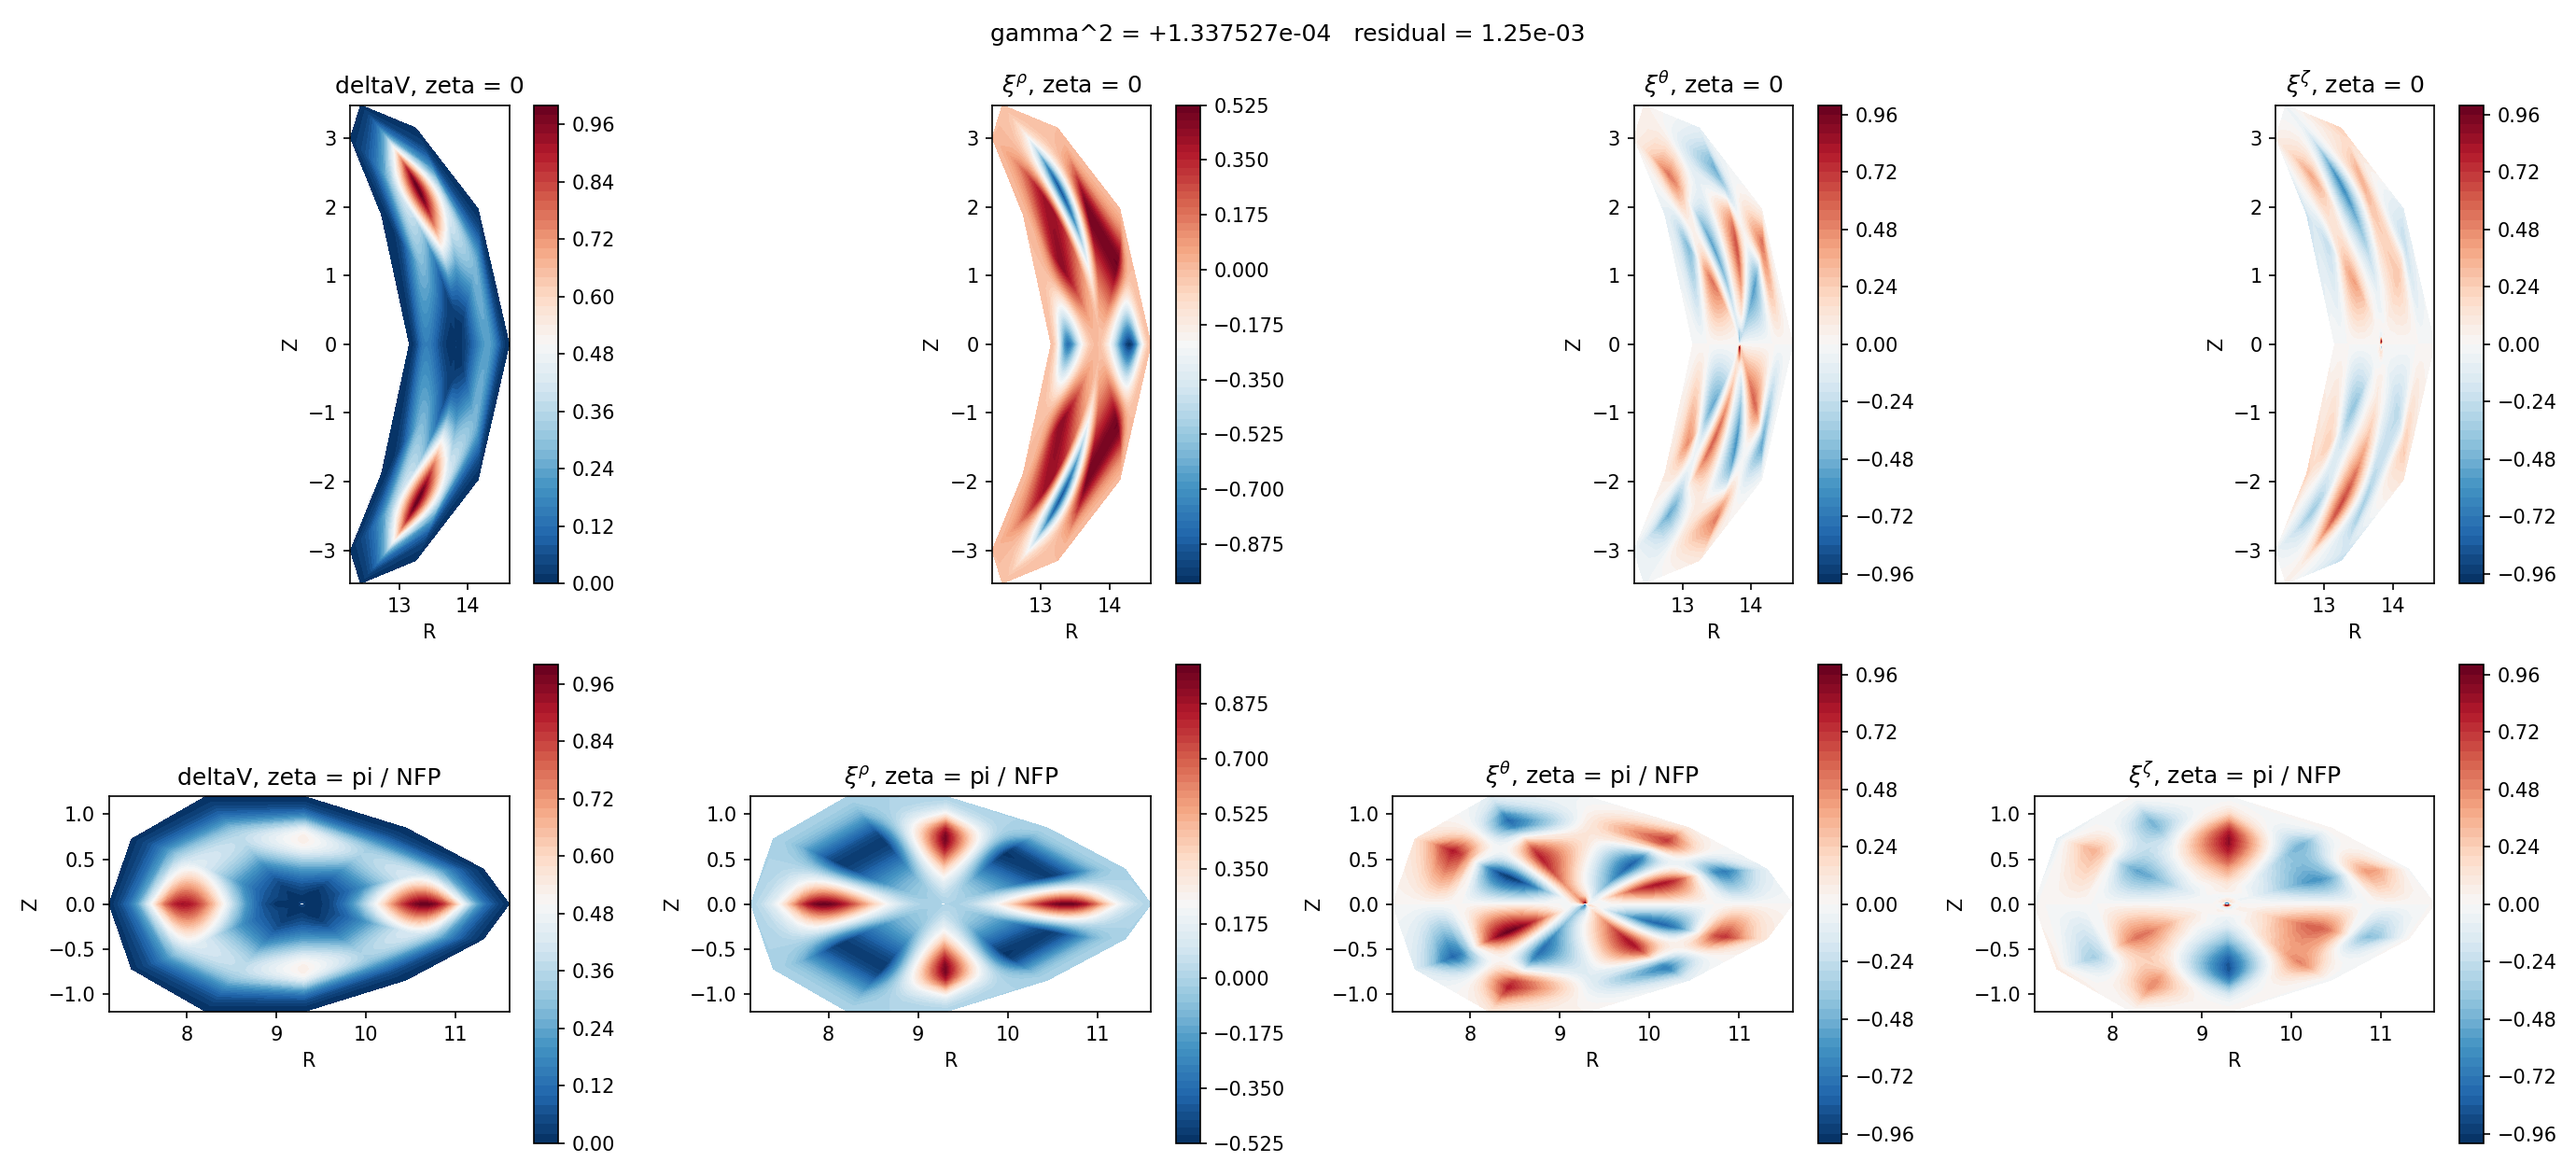
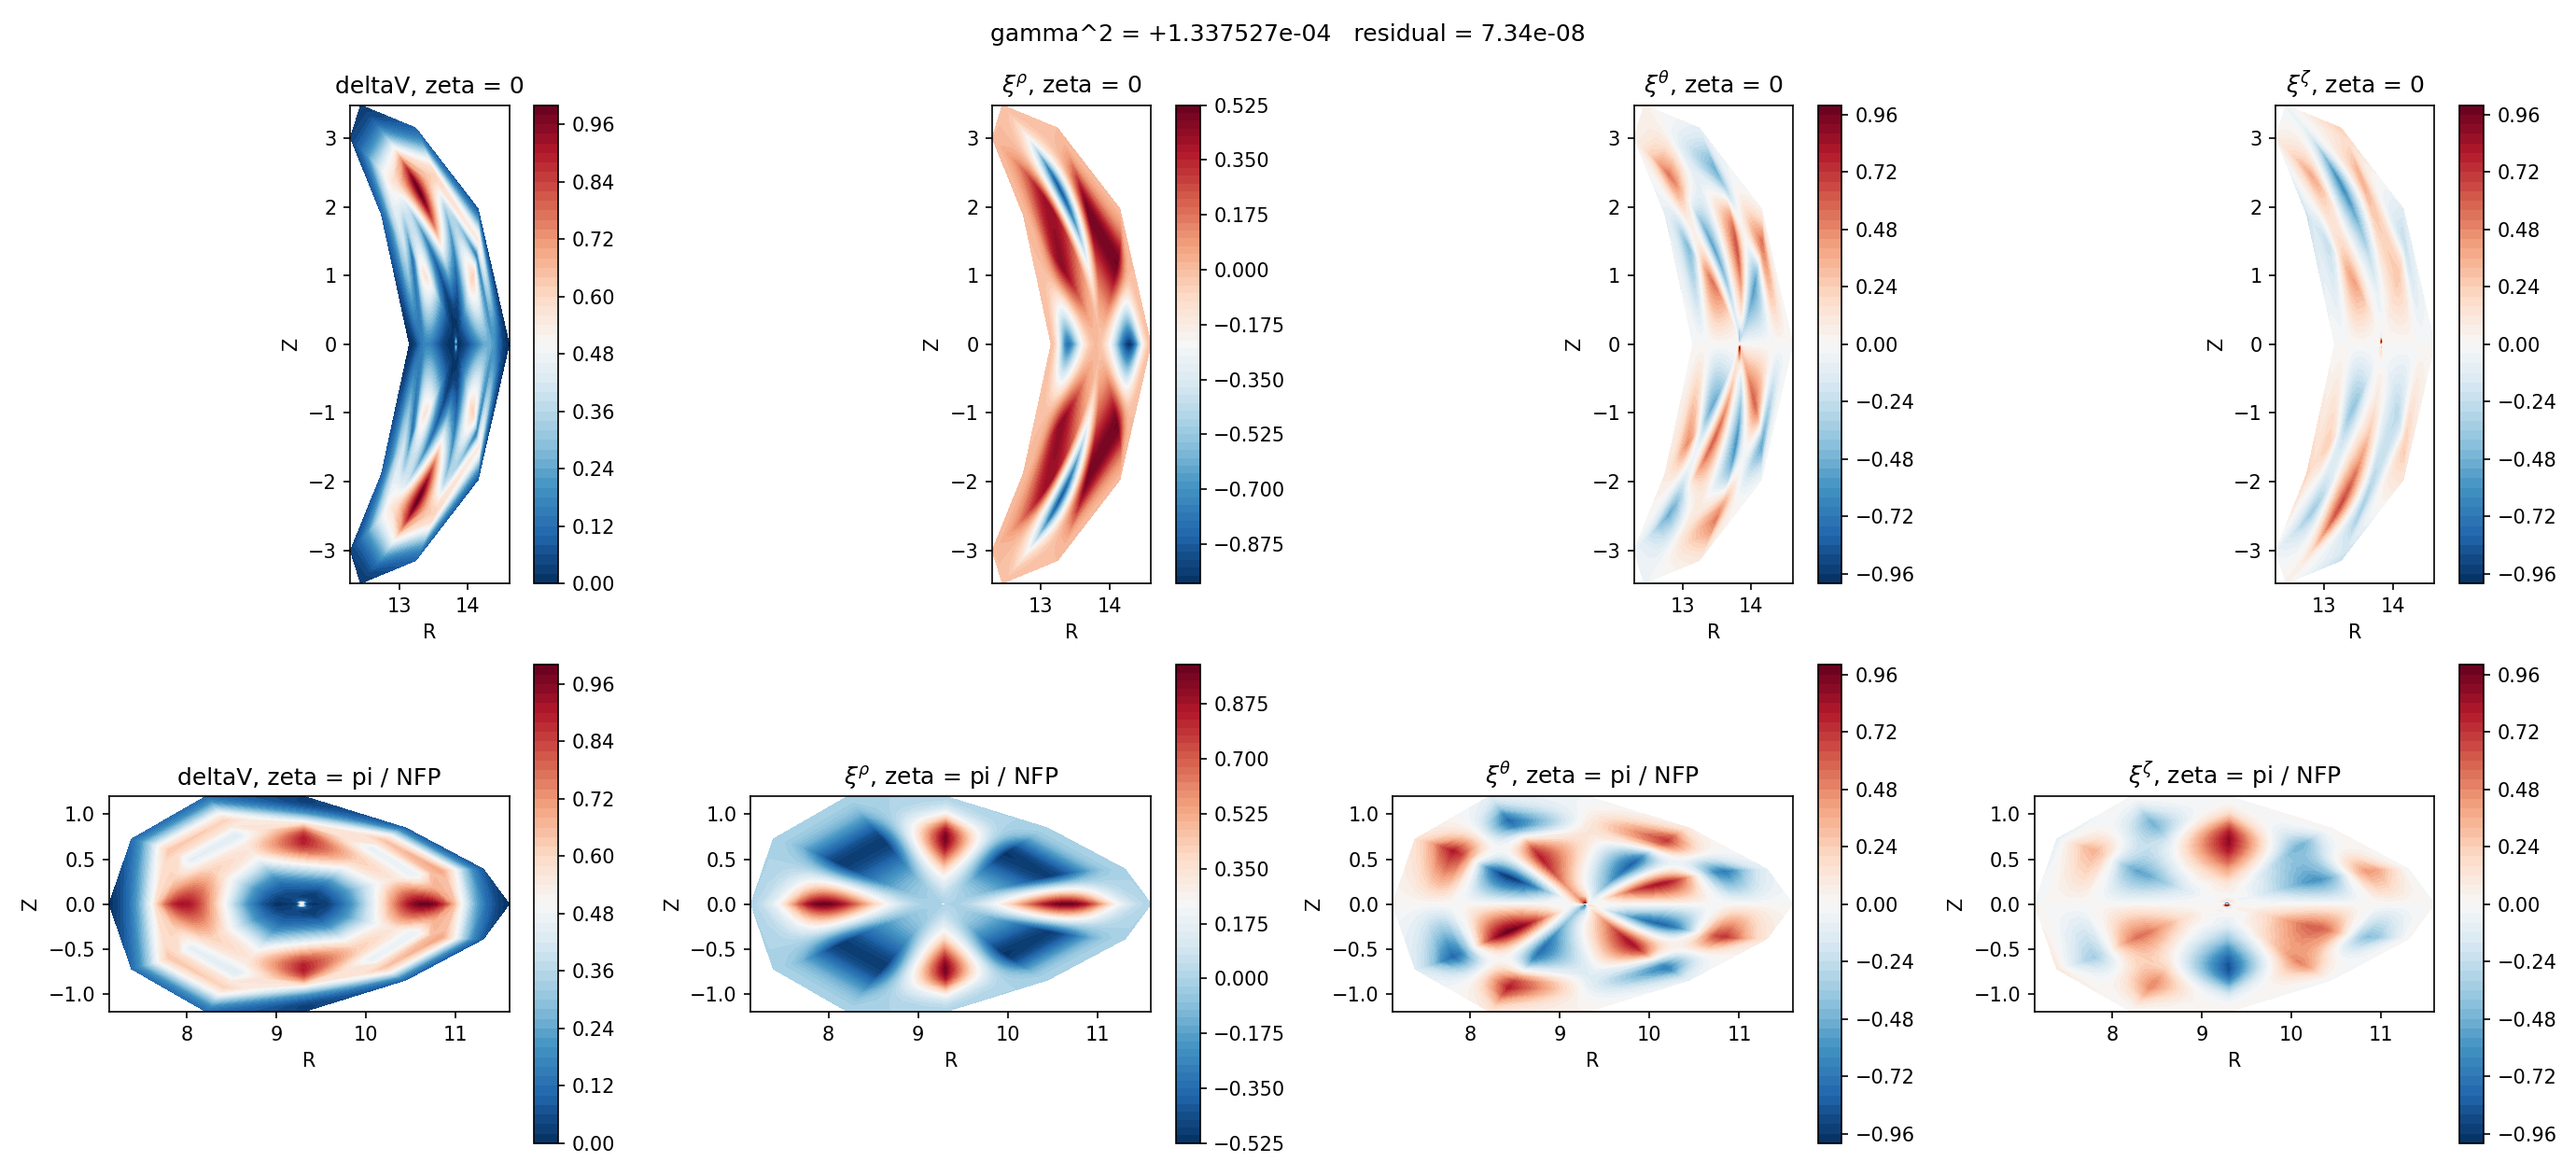
mode_displacement: xi^rho with the solver's normalized psi'

Changed region(s): [[0.1246, 0.0929, 0.2181, 0.4952], [0.0312, 0.681, 0.2181, 0.8667]]

diff --git a/tests/test_plotting.py b/tests/test_plotting.py
@@ -115,24 +115,45 @@ def test_a_wrong_length_vector_is_refused(eq_data, solved):
         mode_components(op, v[:-1])
 
 
-def test_displacement_undoes_the_axis_rescaling(eq_data, solved):
-    """``xi_tilde`` is the solver's components with Eq. (21) undone.
+@pytest.mark.parametrize("case", ["3d", "axisymmetric"])
+def test_displacement_undoes_the_axis_rescaling(
+    case, eq_data, diffmat, solved, axisym_case, axisym_solved
+):
+    """``xi`` is the solver's components with Eq. (21) undone, and it carries
+    the kinetic energy: ``v^H v = int |xi|^2 dV`` in the solver's units.
 
-    Checked against the definition rather than against a stored array, because
-    the definition is the thing that is easy to get wrong: the solver carries
-    ``upsilon = xi^theta - xi^zeta``, so recovering ``xi^theta`` is an addition,
-    not a copy.
+    The solver carries ``upsilon = xi^theta - xi^zeta``, so recovering
+    ``xi^theta`` is an addition, not a copy; and its radial unknown is
+    ``xi^rho / psi'`` with the normalized ``psi'``, not the SI one.
     """
-    op, _, v = solved
-    comp = mode_components(op, v)
-    xi = mode_displacement(eq_data, op, v)
-    shape = eq_data.resolution
-    psi_r = np.asarray(eq_data.psi_r).reshape(shape)
-    iota = np.asarray(eq_data.iota).reshape(shape)
+    from agnimhd import AssemblyConfig
+    from agnimhd.assemble import _normalized_fields
 
-    assert np.allclose(xi[..., 0], psi_r * comp[..., 0], rtol=0, atol=0)
+    if case == "3d":
+        eq, (op, _, v) = eq_data, solved
+    else:
+        (eq, diffmat, _), (_, op, _, v) = axisym_case, axisym_solved
+    comp = mode_components(op, v)
+    xi = mode_displacement(eq, op, v)
+    shape = eq.resolution
+    f = {
+        k: np.asarray(x).reshape(shape)
+        for k, x in _normalized_fields(eq, AssemblyConfig()).items()
+        if np.size(x) == eq.n_nodes
+    }
+    assert np.allclose(xi[..., 0], f["psi_r"] * comp[..., 0], rtol=0, atol=0)
     assert np.allclose(xi[..., 1], comp[..., 1] + comp[..., 2], rtol=0, atol=0)
-    assert np.allclose(xi[..., 2], comp[..., 2] / iota, rtol=0, atol=0)
+    assert np.allclose(xi[..., 2], comp[..., 2] / f["iota"], rtol=0, atol=0)
+
+    w = np.kron(diffmat.w_rho, np.kron(diffmat.w_theta, diffmat.w_zeta)).reshape(shape)
+    metric = {(0, 0): "g_rr", (1, 1): "g_vv", (2, 2): "g_pp"}
+    metric.update({(0, 1): "g_rv", (0, 2): "g_rp", (1, 2): "g_vp"})
+    kinetic = sum(
+        (1 + (i != j))
+        * np.sum(w * f["sqrtg"] * f[g] * np.real(np.conj(xi[..., i]) * xi[..., j]))
+        for (i, j), g in metric.items()
+    )
+    assert kinetic == pytest.approx(np.real(np.vdot(v, v)), rel=1e-10)
 
 
 def test_speed_is_normalized_nonnegative_and_scale_invariant(eq_data, solved):

diff --git a/src/agnimhd/plotting.py b/src/agnimhd/plotting.py
@@ -126,14 +126,19 @@ def mode_displacement(eq, op, v):
     which is the same grouping the kinetic-energy integral is written in, so it
     can be checked against that rather than taken on faith.
 
-    **The overall scale is not physical.** An eigenvector has arbitrary
-    normalization, and the operator is built from normalized fields, so treat
-    the returned components as a shape. :func:`mode_speed` normalizes to its own
-    maximum for exactly this reason.
+    ``psi'`` is the solver's normalized one, ``psi'_SI / (a^2 B_N)`` with
+    ``B_N = |Psi| / (pi a^2)``, the one the kinetic energy is assembled with, so
+    that ``v^H v = int |xi|^2 dV``. **The overall scale is not physical.** An
+    eigenvector has arbitrary normalization, so treat the returned components as
+    a shape. :func:`mode_speed` normalizes to its own maximum for exactly this
+    reason.
     """
+    from .assemble import _normalized_fields
+    from .config import AssemblyConfig
+
     comp = mode_components(op, v)
     shape = (eq.n_rho, eq.n_theta, eq.n_zeta)
-    psi_r = np.asarray(eq.psi_r).reshape(shape)
+    psi_r = np.asarray(_normalized_fields(eq, AssemblyConfig())["psi_r"]).reshape(shape)
     iota = np.asarray(eq.iota).reshape(shape)
 
     xi_rho = psi_r * comp[..., 0]

diff --git a/CHANGELOG.md b/CHANGELOG.md
@@ -17,6 +17,7 @@ Breaking Changes and Deprecations
 
 Bug Fixes
 
+- Fixes ``mode_displacement``, which multiplied the solver's radial unknown by the SI ``psi'`` instead of the normalized one, so ``xi^rho`` was too large by ``a^2 B_N = |Psi| / pi`` (13.6 on the shipped QH case) and ``|delta V|`` over-weighted it; eigenvalues are unchanged, the eigenfunction figures are redone [#108](https://github.com/rahulgaur104/AGNI/issues/108).
 - Fixes the ``jacobi_diffmat`` docstring, which called Gauss-Radau-Jacobi the converged reference for the Zernike path [#105](https://github.com/rahulgaur104/AGNI/pull/105).
 - Fixes ``docs/theory.md`` and ``docs/options.md``, which named two different default radial bases [#101](https://github.com/rahulgaur104/AGNI/pull/101).
 
